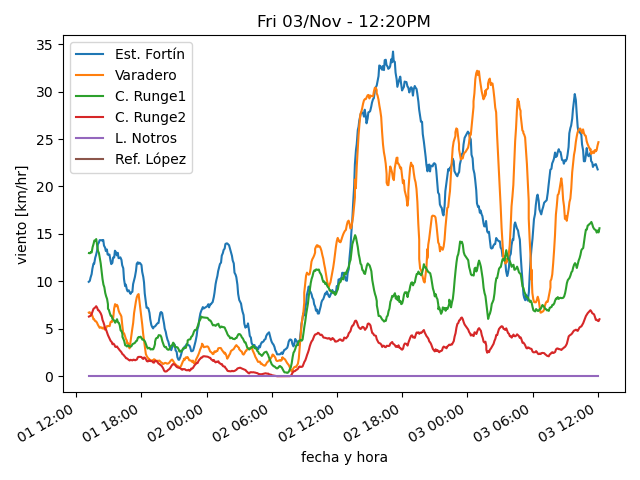
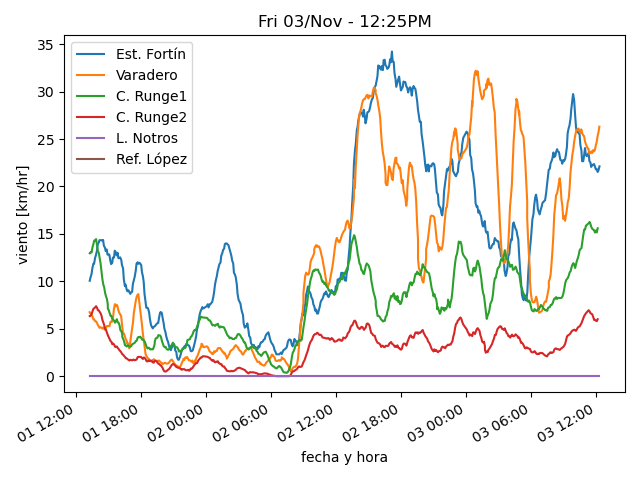
actualiza datos

diff --git a/estaciones/estacion1.html b/estaciones/estacion1.html
@@ -18,32 +18,32 @@
     </tr>
     <tr>
      <td class="stats_data">
-      11:59AM
+      12:19PM
      </td>
     </tr>
     <tr>
      <td class="stats_data">
-      12.9⁰C
+      12.8⁰C
      </td>
     </tr>
     <tr>
      <td class="stats_data">
-      1.9⁰C
+      1.4⁰C
      </td>
     </tr>
     <tr>
      <td class="stats_data">
-      47.0%
+      45.7%
      </td>
     </tr>
     <tr>
      <td class="stats_data">
-      1020.66hPa
+      1019.98hPa
      </td>
     </tr>
     <tr>
      <td class="stats_data">
-      10.7/20.9 km/hr SW
+      10.8/25.2 km/hr WSW
      </td>
     </tr>
     <tr>
@@ -53,12 +53,12 @@
     </tr>
     <tr>
      <td class="stats_data">
-      6.1
+      6.4
      </td>
     </tr>
     <tr>
      <td class="stats_data">
-      888.0 W/m²
+      911.0 W/m²
      </td>
     </tr>
    </tbody>

diff --git a/estaciones/estacion2.html b/estaciones/estacion2.html
@@ -18,32 +18,32 @@
     </tr>
     <tr>
      <td class="stats_data">
-      12:04PM
+      12:19PM
      </td>
     </tr>
     <tr>
      <td class="stats_data">
-      9.8⁰C
+      10.2⁰C
      </td>
     </tr>
     <tr>
      <td class="stats_data">
-      4.5⁰C
+      4.2⁰C
      </td>
     </tr>
     <tr>
      <td class="stats_data">
-      69.3%
+      66.7%
      </td>
     </tr>
     <tr>
      <td class="stats_data">
-      1031.83hPa
+      1031.49hPa
      </td>
     </tr>
     <tr>
      <td class="stats_data">
-      24.4/27.8 km/hr NNW
+      26.2/29.8 km/hr NW
      </td>
     </tr>
     <tr>
@@ -58,7 +58,7 @@
     </tr>
     <tr>
      <td class="stats_data">
-      837.6 W/m²
+      831.2 W/m²
      </td>
     </tr>
    </tbody>

diff --git a/estaciones/estacion5.html b/estaciones/estacion5.html
@@ -18,27 +18,27 @@
     </tr>
     <tr>
      <td class="stats_data">
-      12:00PM
+      12:15PM
      </td>
     </tr>
     <tr>
      <td class="stats_data">
-      14.7⁰C
+      15.3⁰C
      </td>
     </tr>
     <tr>
      <td class="stats_data">
-      3.2⁰C
+      4.0⁰C
      </td>
     </tr>
     <tr>
      <td class="stats_data">
-      46.0%
+      47.0%
      </td>
     </tr>
     <tr>
      <td class="stats_data">
-      1020.76hPa
+      1020.22hPa
      </td>
     </tr>
     <tr>
